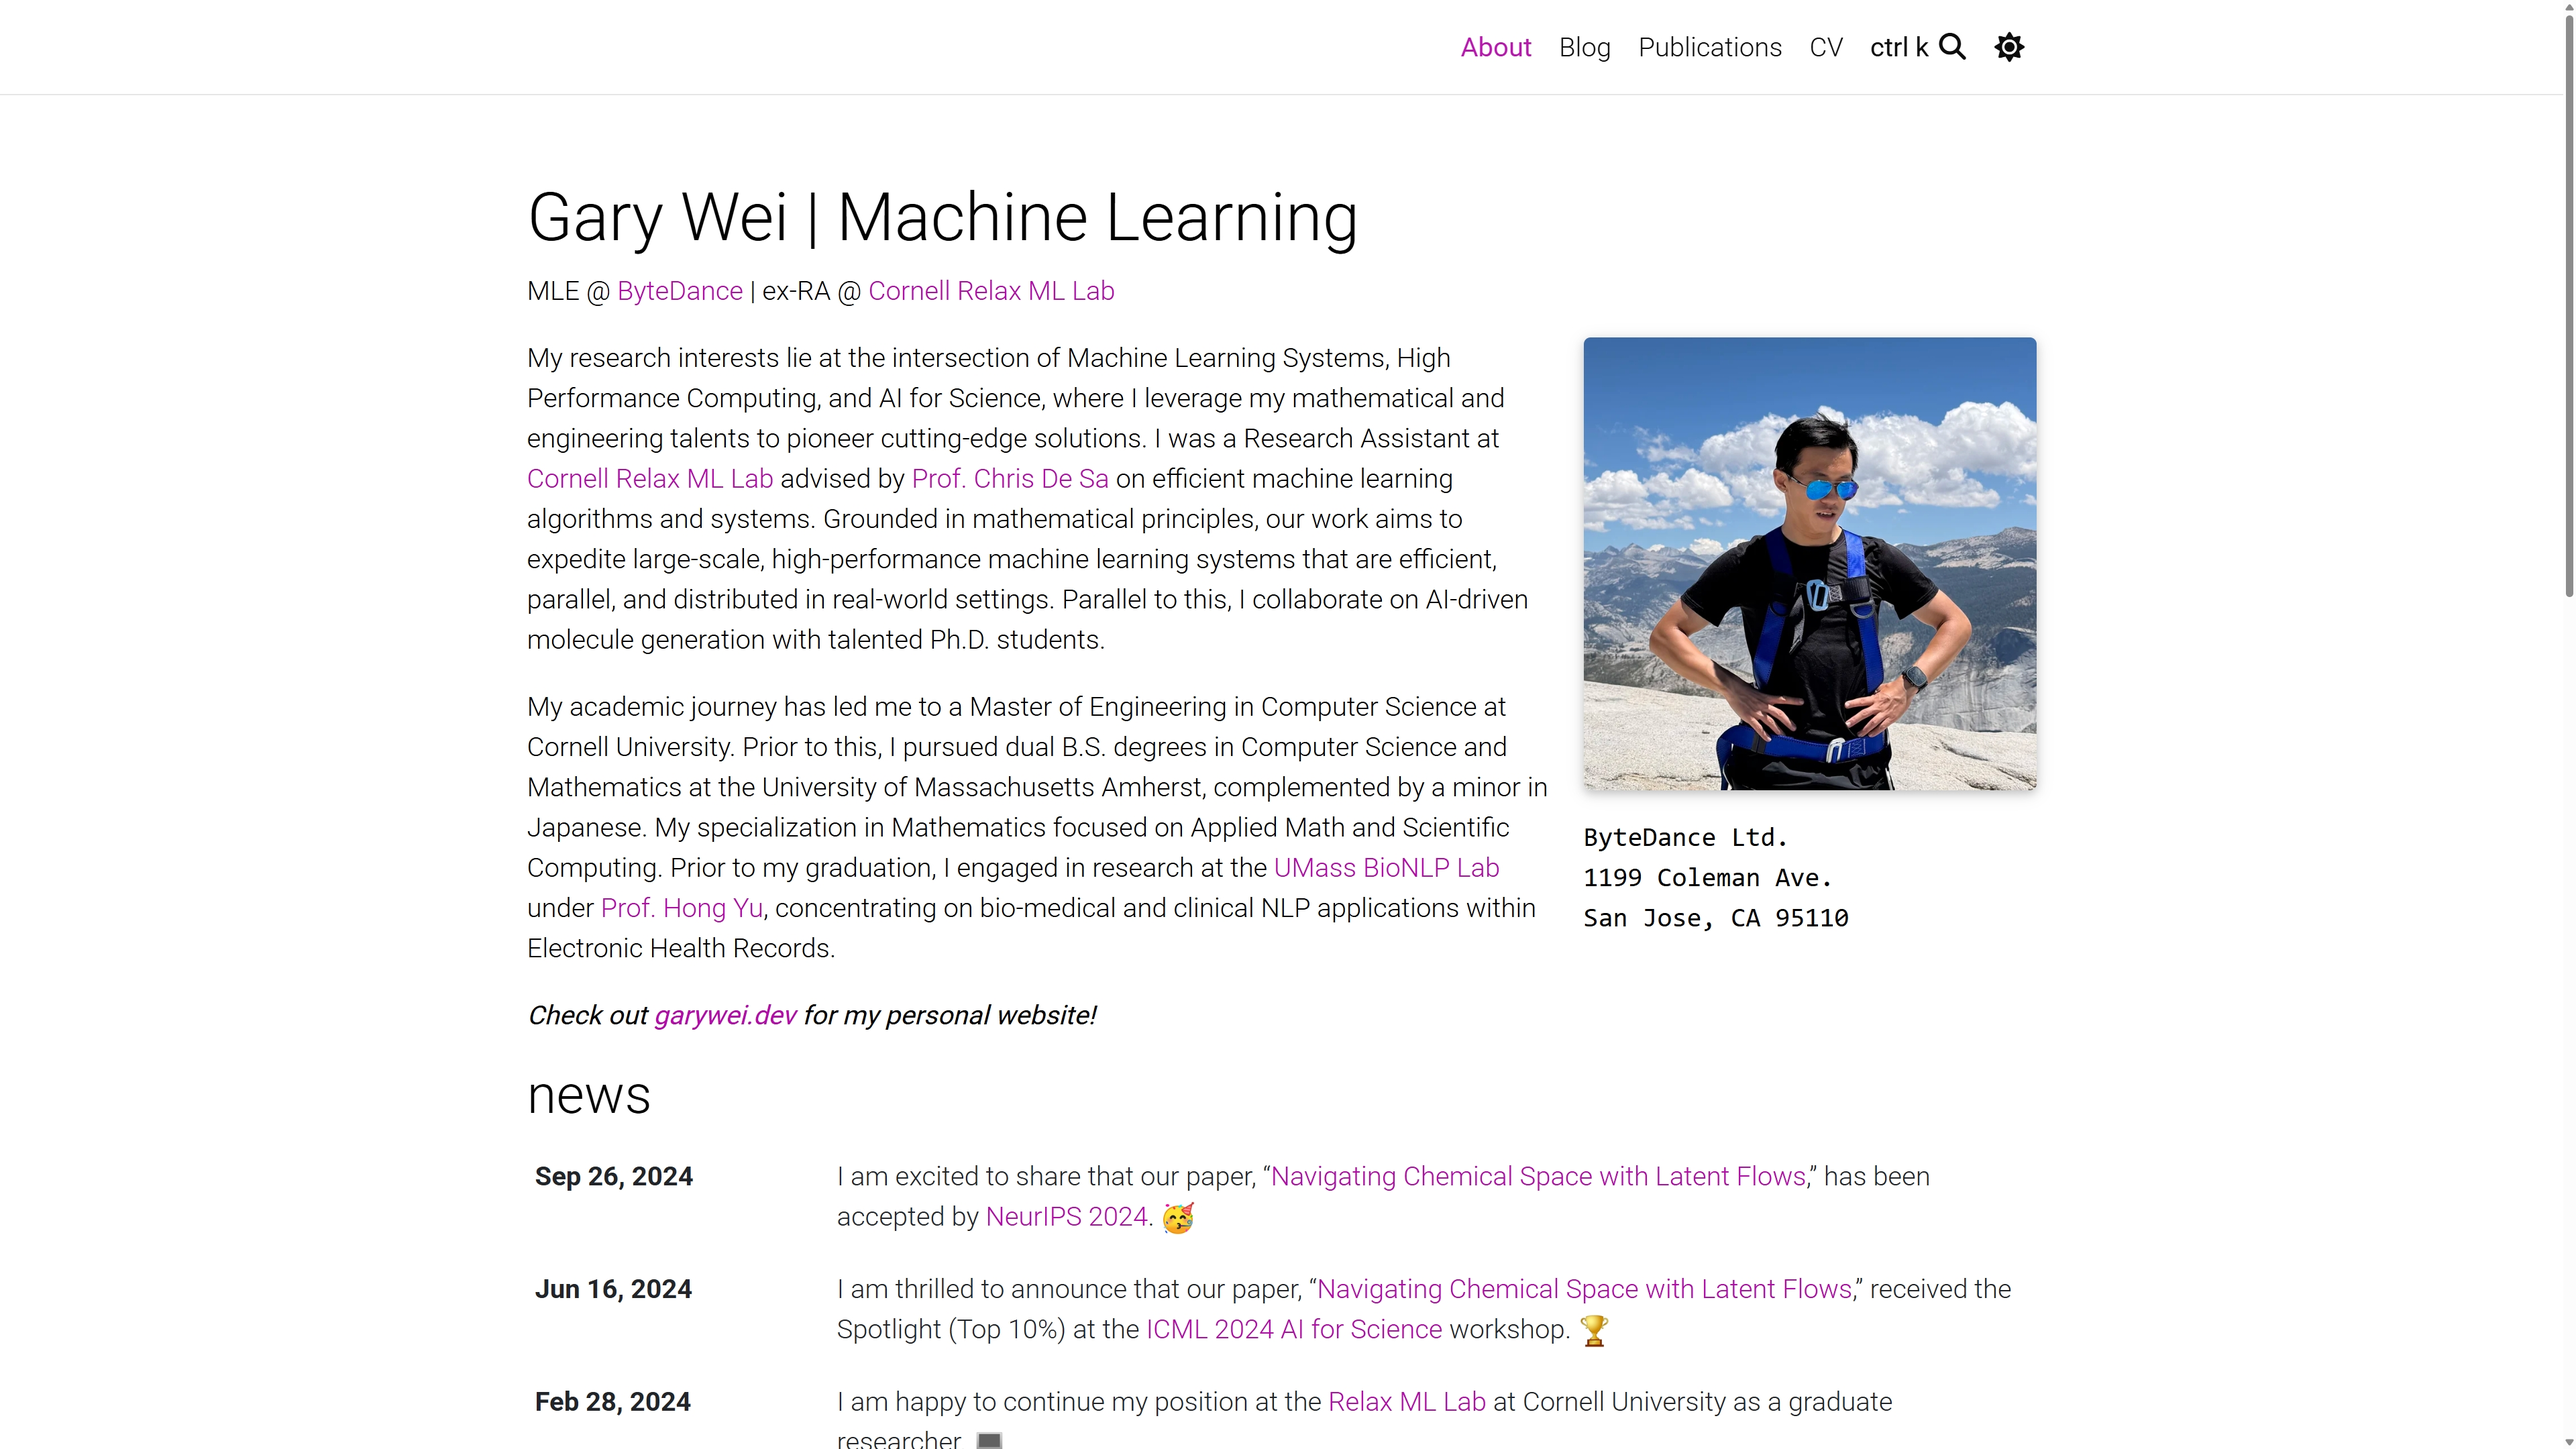
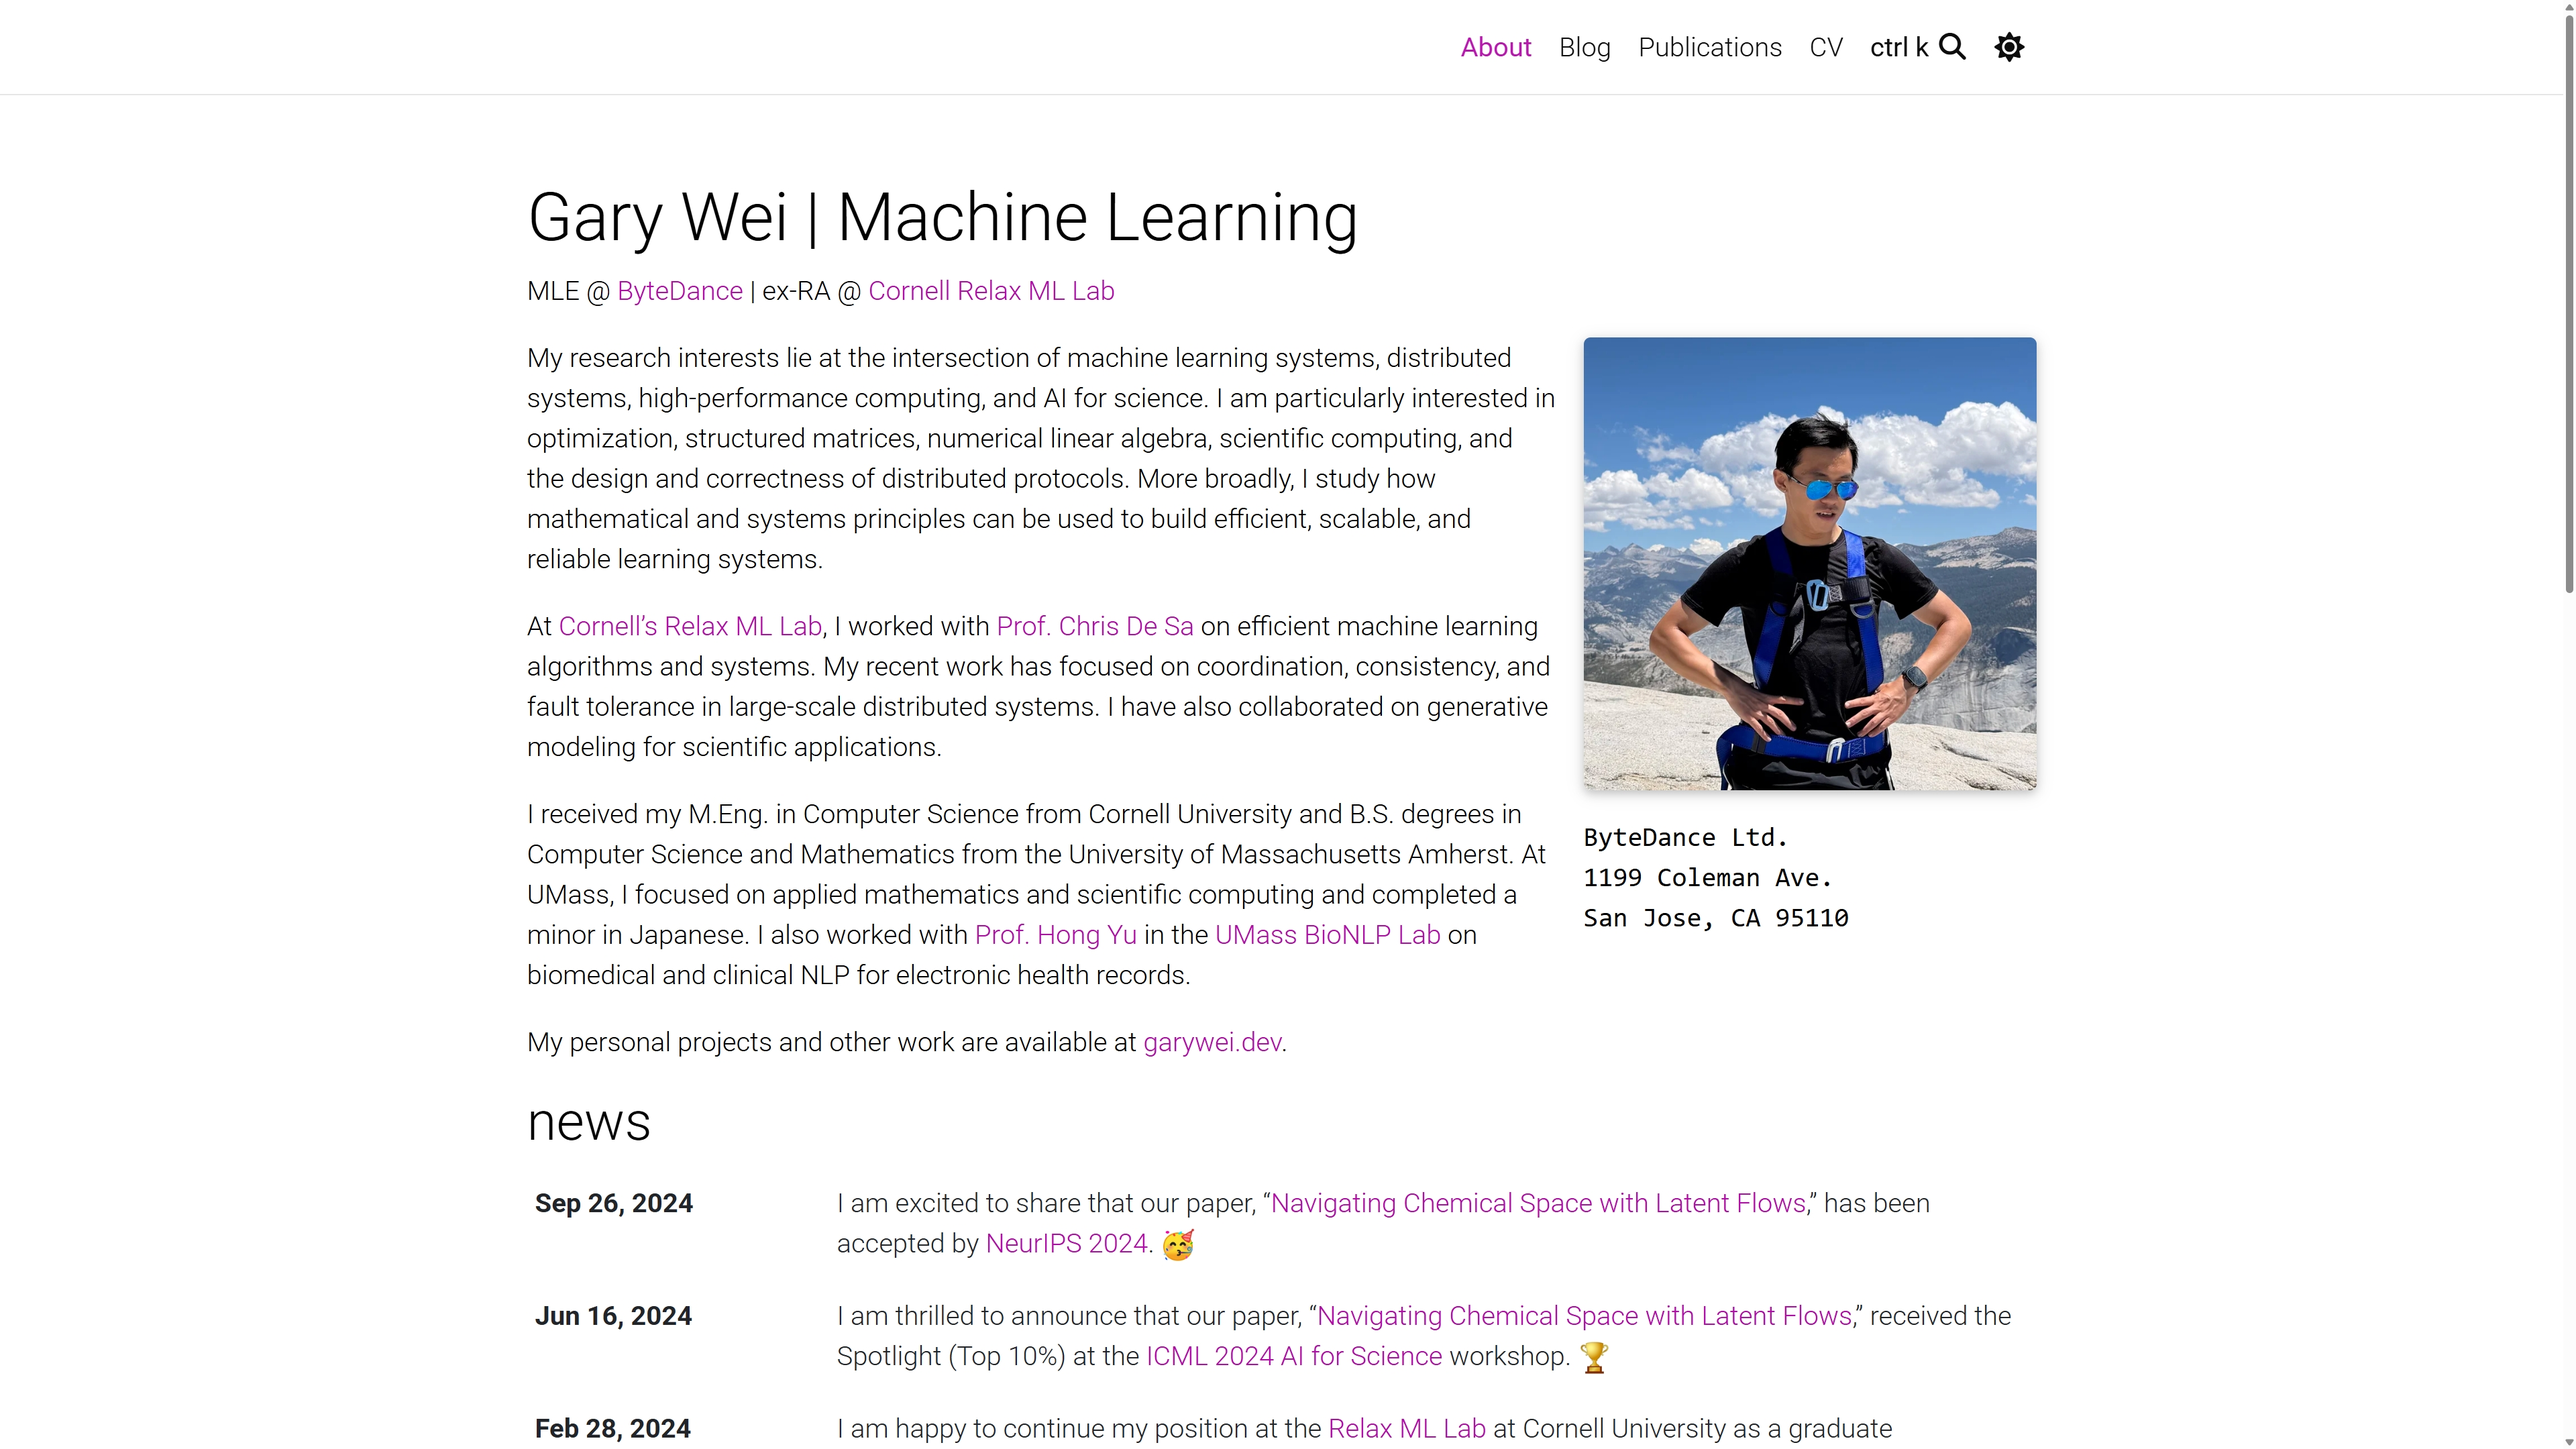
chore(site): refine profile metadata and assets

diff --git a/_pages/about.md b/_pages/about.md
@@ -2,7 +2,7 @@
 layout: about
 title: About
 permalink: /
-subtitle: Machine Learning Engineer at <a href="https://www.bytedance.com/">ByteDance</a> · Former Research Assistant at <a href="https://relax-ml.cs.cornell.edu/team/">Cornell's Relax ML Lab</a>
+subtitle: MLE @ <a href="https://www.bytedance.com/">ByteDance</a> | ex-RA @ <a href="https://relax-ml.cs.cornell.edu/team/">Cornell Relax ML Lab</a>
 
 profile:
   align: right
